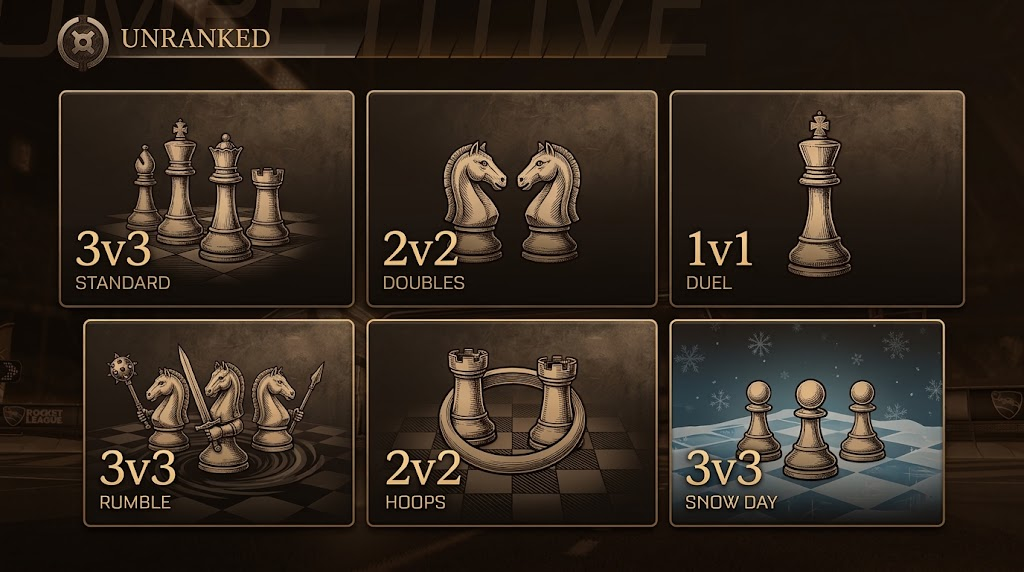
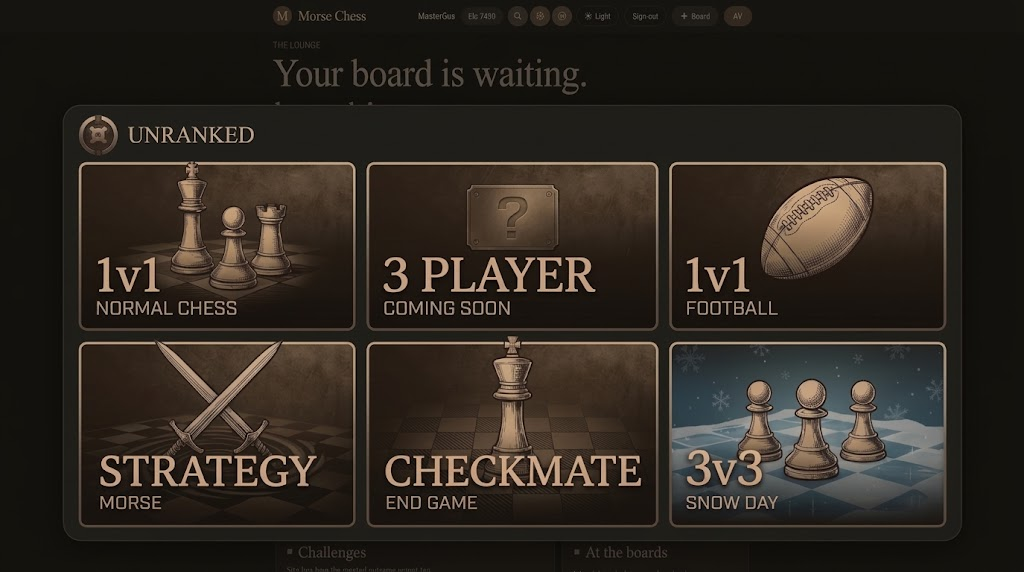
Use the lounge playlist picture for pull-up.
Normal Chess, Football, Morse Strategy, and Checkmate are the live cards. 3 Player and Snow Day stay coming soon.

diff --git a/src/components/club-home.tsx b/src/components/club-home.tsx
@@ -513,12 +513,12 @@ export function ClubHome() {
           </button>
           <div className="relative w-[min(100vw,calc(100dvh*1024/572))]" style={{ aspectRatio: "1024 / 572" }}>
             <img src={asset("/pull-up.png")} alt="" className="absolute inset-0 h-full w-full select-none" draggable={false} />
-            <div className="absolute grid grid-cols-3 grid-rows-2 gap-x-[2.1%] gap-y-[3.4%]" style={{ left: "6.6%", right: "6.4%", top: "16.2%", bottom: "8.6%" }}>
-              <button type="button" aria-label="Standard" className="rounded-md hover:bg-white/5" onClick={() => setFlow({ kind: "pick-mode", intent: flow.intent })} />
-              <button type="button" aria-label="Doubles" className="rounded-md hover:bg-white/5" onClick={() => pickVariant("checkmate")} />
-              <button type="button" aria-label="Duel" className="rounded-md hover:bg-white/5" onClick={() => setFlow({ kind: "pick-mode", intent: flow.intent })} />
-              <button type="button" aria-label="Rumble" className="rounded-md hover:bg-white/5" onClick={() => pickVariant("strategy")} />
-              <button type="button" aria-label="Hoops" className="rounded-md hover:bg-white/5" onClick={() => pickVariant("football")} />
+            <div className="absolute grid grid-cols-3 grid-rows-2 gap-x-[2.4%] gap-y-[2.2%]" style={{ left: "8.2%", right: "7.4%", top: "27.5%", bottom: "13.5%" }}>
+              <button type="button" aria-label="Normal chess" className="rounded-md hover:bg-white/5" onClick={() => setFlow({ kind: "pick-mode", intent: flow.intent })} />
+              <button type="button" aria-label="3 player" className="rounded-md hover:bg-white/5" onClick={() => setError("Coming soon")} />
+              <button type="button" aria-label="Football" className="rounded-md hover:bg-white/5" onClick={() => pickVariant("football")} />
+              <button type="button" aria-label="Morse Strategy" className="rounded-md hover:bg-white/5" onClick={() => pickVariant("strategy")} />
+              <button type="button" aria-label="Checkmate" className="rounded-md hover:bg-white/5" onClick={() => pickVariant("checkmate")} />
               <button type="button" aria-label="Snow Day" className="rounded-md hover:bg-white/5" onClick={() => setError("Coming soon")} />
             </div>
             {error ? <p className="absolute bottom-2 left-1/2 -translate-x-1/2 text-sm text-[#e7c56a]">{error}</p> : null}
